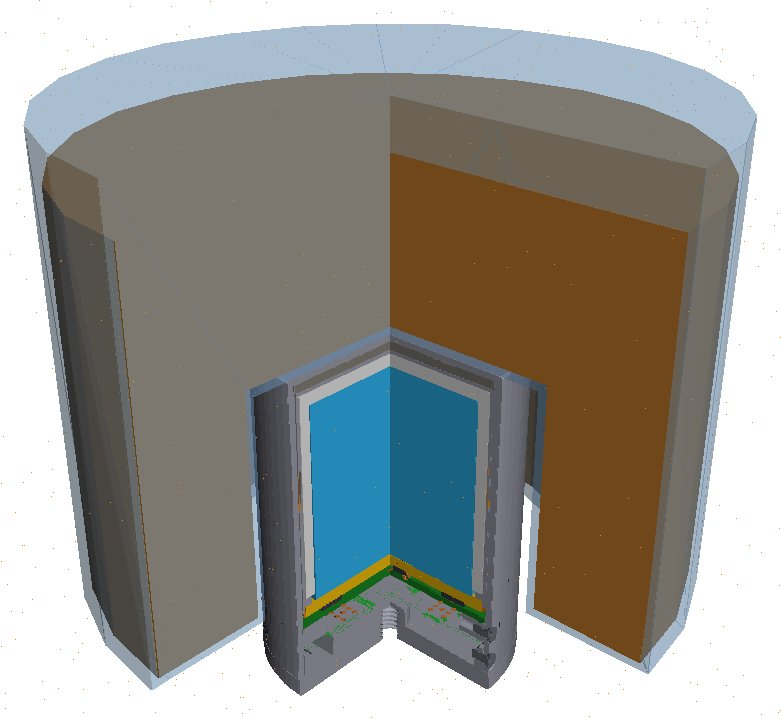
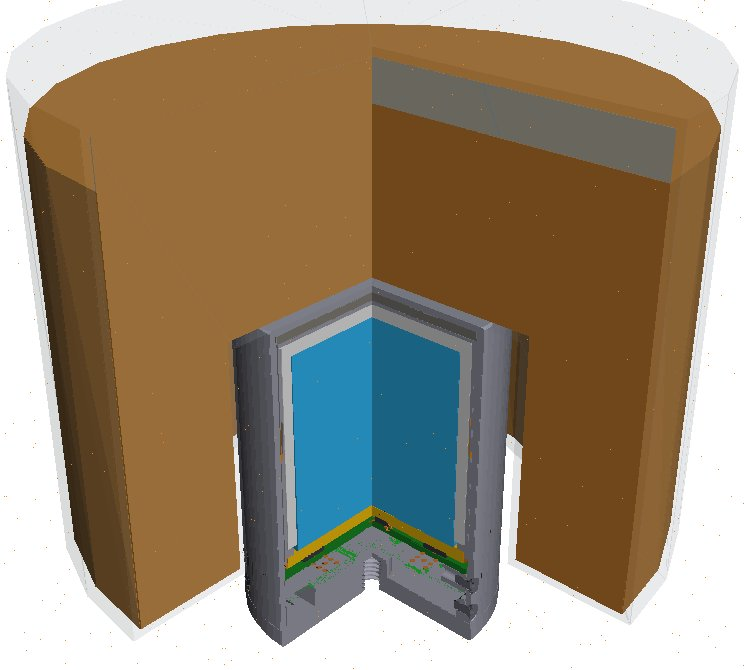
gs2020-th232: рендер Маринелли на исправленной геометрии (воздух над пробой, плотность по объёму), вывод о причине завышения помечен предварительным

diff --git a/docs/gs2020-th232/index.html b/docs/gs2020-th232/index.html
@@ -3,7 +3,7 @@
 <meta name="theme-color" content="#e6e0d0" media="(prefers-color-scheme: light)">
 <meta name="theme-color" content="#0e0c08" media="(prefers-color-scheme: dark)">
 <title>Atom GS2020 PRO MAX: прибор, Geant4-модель, спектры</title>
-<link rel="stylesheet" href="styles/g1s-th232.css?v=1790518337">
+<link rel="stylesheet" href="styles/g1s-th232.css?v=1790523073">
 <style>
 .dev{border-bottom:3px solid var(--rule); padding:1.1rem 0 1.3rem}
 .dev p,.dev li,.dev td,.dev th,.dev figcaption{text-align:left}
@@ -94,7 +94,7 @@
     </div>
     <div class="dev-fig">
       <figure><img src="img/g4_cut34.jpg" alt="разрез Geant4-модели прибора: корпус, пакет кристалла, платы" loading="lazy" width="593" height="755"><figcaption>Geant4: разрез модели прибора, кристаллом вверх (голубое — кристалл NaI(Tl), светло-серое — отражатель, жёлтое — кварцевое окно между кристаллом и SiPM, зелёное — платы SiPM, тёмно-серое сверху — поролоновая прокладка)</figcaption></figure>
-      <figure><img src="img/g4_marinelli_cut34.jpg" alt="разрез модели: прибор в колодце сосуда Маринелли с пробой" loading="lazy" width="819" height="691"><figcaption>Geant4: прибор в сосуде Маринелли 1&nbsp;л, геометрия расчёта (коричневое — проба; уровень заполнения на 1&nbsp;см ниже края сосуда)</figcaption></figure>
+      <figure><img src="img/g4_marinelli_cut34.jpg" alt="разрез модели: прибор в колодце сосуда Маринелли с пробой" loading="lazy" width="819" height="691"><figcaption>Geant4: прибор в сосуде Маринелли 1&nbsp;л, исправленная геометрия (коричневое — проба, уровень на 1&nbsp;см ниже края; серо-голубая полоса сверху — воздух над пробой; стенка сосуда почти прозрачная)</figcaption></figure>
     </div>
   </section>
   <div class="lbox" id="lbox" hidden role="dialog" aria-modal="true" aria-label="увеличенное изображение"><img alt=""><p></p></div>
@@ -130,7 +130,12 @@
       сумм-пиков каскадного совпадения. Разрешение прибора — степенной
       закон ПШПВ(E) = 0,606·E<sup>0,6690</sup> кэВ по 6
       линиям таблицы пиков самого прибора.</p>
-      <p class="warn"><b>Причина завышения активности в прежней редакции найдена.</b>
+      <p class="warn"><b>Вывод ниже — предварительный, идёт пересчёт.</b> В геометрии с
+      уровнем на 1 см ниже края найдены две ошибки: плотность пробы осталась прежней
+      (масса пробы в модели меньше реальной), а над пробой вместо воздуха оказался
+      полипропилен сосуда. Числа на этой странице посчитаны на этой геометрии и будут
+      заменены после пересчёта.</p>
+      <p class="warn"><b>Причина завышения активности в прежней редакции (предварительно).</b>
       Геометрия считала жидкость с источником заполненной до самого края сосуда;
       реально уровень на 1 см ниже (сосуд на 1 л не доходит до края). С этой
       поправкой метод 1 (фон с водой) даёт активность, близкую к известной
@@ -314,8 +319,8 @@
 <div class="scrim" id="scrim" hidden></div>
 <div class="pop" id="pop" hidden role="dialog" aria-modal="true" aria-labelledby="popTitle"></div>
 
-<script src="data.js?v=1790518337"></script>
-<script src="scripts/g1s-th232.js?v=1790518337"></script>
+<script src="data.js?v=1790523073"></script>
+<script src="scripts/g1s-th232.js?v=1790523073"></script>
 
 <!-- ==================== всплывающие пояснения ==================== -->
 
@@ -369,7 +374,8 @@
     <div><dt>Удельная активность</dt><dd>910 Бк/кг (6,0 %)</dd></div>
     <div><dt>Масса</dt><dd>1052 г</dd></div>
     <div><dt>Плотность в модели</dt><dd>ρ&nbsp;=&nbsp;0,80&nbsp;г/см³
-      — масса, делённая на полный объём сосуда (сосуд заполнен почти доверху)</dd></div>
+      — масса, делённая на полный объём сосуда. Ошибка: при уровне на 1&nbsp;см ниже края
+      объём пробы меньше, плотность должна быть выше; исправляется пересчётом</dd></div>
     <div><dt>Полная активность</dt><dd>957 Бк ± 57 Бк</dd></div>
   </dl>
   <p>Равновесие ветви не измерено, принято. Распадом Th-232 за время от

diff --git a/detectors/Atom-GS2020-PRO-MAX/web-th232/src/index.html b/detectors/Atom-GS2020-PRO-MAX/web-th232/src/index.html
@@ -94,7 +94,7 @@
     </div>
     <div class="dev-fig">
       <figure><img src="img/g4_cut34.jpg" alt="разрез Geant4-модели прибора: корпус, пакет кристалла, платы" loading="lazy" width="593" height="755"><figcaption>Geant4: разрез модели прибора, кристаллом вверх (голубое — кристалл NaI(Tl), светло-серое — отражатель, жёлтое — кварцевое окно между кристаллом и SiPM, зелёное — платы SiPM, тёмно-серое сверху — поролоновая прокладка)</figcaption></figure>
-      <figure><img src="img/g4_marinelli_cut34.jpg" alt="разрез модели: прибор в колодце сосуда Маринелли с пробой" loading="lazy" width="819" height="691"><figcaption>Geant4: прибор в сосуде Маринелли 1&nbsp;л, геометрия расчёта (коричневое — проба; уровень заполнения на 1&nbsp;см ниже края сосуда)</figcaption></figure>
+      <figure><img src="img/g4_marinelli_cut34.jpg" alt="разрез модели: прибор в колодце сосуда Маринелли с пробой" loading="lazy" width="819" height="691"><figcaption>Geant4: прибор в сосуде Маринелли 1&nbsp;л, исправленная геометрия (коричневое — проба, уровень на 1&nbsp;см ниже края; серо-голубая полоса сверху — воздух над пробой; стенка сосуда почти прозрачная)</figcaption></figure>
     </div>
   </section>
   <div class="lbox" id="lbox" hidden role="dialog" aria-modal="true" aria-label="увеличенное изображение"><img alt=""><p></p></div>
@@ -130,7 +130,12 @@
       сумм-пиков каскадного совпадения. Разрешение прибора — степенной
       закон ПШПВ(E) = {{fw_k}}·E<sup>{{fw_p}}</sup> кэВ по {{fw_nused}}
       линиям таблицы пиков самого прибора.</p>
-      <p class="warn"><b>Причина завышения активности в прежней редакции найдена.</b>
+      <p class="warn"><b>Вывод ниже — предварительный, идёт пересчёт.</b> В геометрии с
+      уровнем на 1 см ниже края найдены две ошибки: плотность пробы осталась прежней
+      (масса пробы в модели меньше реальной), а над пробой вместо воздуха оказался
+      полипропилен сосуда. Числа на этой странице посчитаны на этой геометрии и будут
+      заменены после пересчёта.</p>
+      <p class="warn"><b>Причина завышения активности в прежней редакции (предварительно).</b>
       Геометрия считала жидкость с источником заполненной до самого края сосуда;
       реально уровень на 1 см ниже (сосуд на 1 л не доходит до края). С этой
       поправкой метод 1 (фон с водой) даёт активность, близкую к известной
@@ -368,7 +373,8 @@
     <div><dt>Удельная активность</dt><dd>{{aksp}} ({{aksp_unc}})</dd></div>
     <div><dt>Масса</dt><dd>{{mass}}</dd></div>
     <div><dt>Плотность в модели</dt><dd>ρ&nbsp;=&nbsp;{{matrix_rho}}&nbsp;г/см³
-      — масса, делённая на полный объём сосуда (сосуд заполнен почти доверху)</dd></div>
+      — масса, делённая на полный объём сосуда. Ошибка: при уровне на 1&nbsp;см ниже края
+      объём пробы меньше, плотность должна быть выше; исправляется пересчётом</dd></div>
     <div><dt>Полная активность</dt><dd>{{apass}} {{apass_dev}}</dd></div>
   </dl>
   <p>Равновесие ветви не измерено, принято. Распадом Th-232 за время от

diff --git a/detectors/Atom-GS2020-PRO-MAX/geometry/gs2020_fix_level.py b/detectors/Atom-GS2020-PRO-MAX/geometry/gs2020_fix_level.py
@@ -1,0 +1,23 @@
+# -*- coding: utf-8 -*-
+r"""Исправление геометрии уровня пробы (27.09, дефекты W-153): над пробой — воздух, а не Vessel_PP; плотность =
+масса / объём пробы при этом уровне. Запуск: python gs2020_fix_level.py <in.gdml> <out.gdml> [масса_г=1052]"""
+import math, re, sys
+sys.stdout.reconfigure(encoding="utf-8")
+src, dst = sys.argv[1], sys.argv[2]
+M = float(sys.argv[3]) if len(sys.argv) > 3 else 1052.0
+t = open(src, encoding="utf-8").read()
+top = float(re.search(r'<polycone name="SourceMatrix_solid".*?<zplane z="([-0-9.]+)" rmin="0" rmax="70.5"/></polycone>', t, re.S).group(1))
+V = (math.pi * (70.5**2 - 43**2) * 55.5 + math.pi * 70.5**2 * (top - 3.0)) / 1000.0
+rho = M / V
+assert t.count('<material name="Epoxy_crumb" state="solid"><D value="0.7987" unit="g/cm3"/>') == 1
+t = t.replace('<material name="Epoxy_crumb" state="solid"><D value="0.7987" unit="g/cm3"/>',
+              '<material name="Epoxy_crumb" state="solid"><D value="%.4f" unit="g/cm3"/>' % rho)
+air = ('<polycone name="Headspace_solid" startphi="0" deltaphi="360" aunit="deg" lunit="mm">'
+       '<zplane z="%.1f" rmin="0" rmax="70.5"/><zplane z="52.5" rmin="0" rmax="70.5"/></polycone>' % top)
+assert t.count("</solids>") == 1 and t.count('<volume name="LV_VesselWall">') == 1
+t = t.replace("</solids>", air + "</solids>")
+t = t.replace('<volume name="LV_VesselWall">', '<volume name="LV_Headspace"><materialref ref="G4_AIR"/><solidref ref="Headspace_solid"/></volume><volume name="LV_VesselWall">')
+t = t.replace('</physvol></volume><volume name="World">', '</physvol><physvol name="PV_LV_Headspace"><volumeref ref="LV_Headspace"/><position name="pos_Headspace" x="0" y="0" z="0" unit="mm"/></physvol></volume><volume name="World">')
+assert t.count("PV_LV_Headspace") == 1, "не вставлен воздух"
+open(dst, "w", encoding="utf-8", newline="").write(t)
+print("верх пробы z=%.1f мм, объём %.1f см3, плотность %.4f г/см3, воздух z %.1f..52.5 мм -> %s" % (top, V, rho, top, dst))
